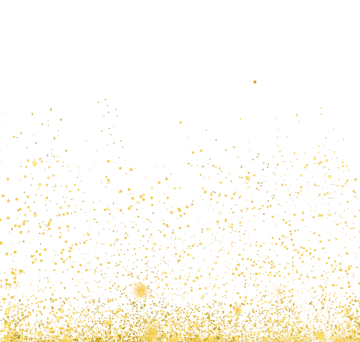
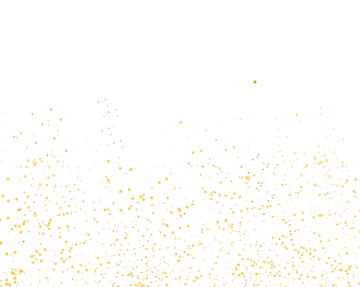
sessao extra do convite, opção ver mais

diff --git a/index.html b/index.html
@@ -298,7 +298,7 @@
 
             <h1
                 style="font-family:'Great Vibes',cursive;"
-                class="text-[#d4af37] text-8xl sm:text-8xl mt-20 sm:mt-10 md:mt-10">
+                class="text-[#d4af37] text-8xl sm:mt-10 md:mt-10">
 
                 Júlia
 
@@ -353,7 +353,7 @@
                 alt="arabesco">
 
             <!-- Ícones -->
-            <div class="flex gap-12 mt-10 mb-6">
+            <div class="flex gap-12 mt-4 mb-4">
 
                 <!-- Whats -->
                 <a
@@ -384,6 +384,87 @@
                     </svg>
 
                 </a>
+
+            </div>
+            <button
+                id="btnMais"
+                class="mt-4 px-10 bg-[#9d1414] rounded-full text-white tracking-[3px] uppercase shadow-lg hover:scale-105 transition">
+
+                Ver Mais
+
+            </button>
+
+        </div>
+
+    </section>
+
+    <!-- SEGUNDA PÁGINA -->
+    <section id="conviteExtra"
+            class="hidden min-h-screen bg-black text-white relative overflow-hidden">
+
+        <!-- Poeira -->
+        <img
+            src="img/poeira-dourada.png"
+            alt=""
+            class="block md:hidden absolute bottom-0 left-0 w-full pointer-events-none z-0">
+
+        <!-- Borda Desktop -->
+        <div
+            class="hidden md:block absolute inset-0 bg-contain bg-center bg-no-repeat opacity-70 pointer-events-none"
+            style="background-image: url('img/arabesco-laterais.png');">
+        </div>
+
+        <div
+            class="max-w-[380px] mx-auto min-h-screen flex flex-col items-center text-center px-6 py-12">
+
+            <!-- Título -->
+            <h2
+                style="font-family:'Great Vibes',cursive;"
+                class="text-white text-6xl sm:mt-8 md:mt-8">
+
+                Detalhes aos Convidados
+
+            </h2>
+
+            <!-- Linha decorativa -->
+            <img
+                src="img/arabesco-inferior.png"
+                alt="arabesco"
+                class="w-56 mt-2 opacity-90">
+
+            <!-- Lista -->
+            <div class="mt-2 text-left">
+
+                <ul class="text-[#d4af37] text-sm leading-8 space-y-3">
+
+                    <li>
+                        • O Traje sugerido é Social/Esporte fino - All Black
+                    </li>
+
+                    <li>
+                        • Não será permitida a entrada de nenhuma bebida externa.
+                    </li>
+
+                    <li>
+                        • Chegue 30 minutinhos antes da cerimônia começar para a fotografia.
+                    </li>
+
+                </ul>
+
+            </div>
+
+            <!-- Mensagem Final -->
+            <div class="mt-6 mb-16">
+
+                <p
+                    style="font-family:'Great Vibes',cursive;"
+                    class="text-white text-2xl leading-tight">
+
+                    Será uma alegria compartilhar
+                    <br>
+                    esse momento com você!
+
+                </p>
 
             </div>
 

diff --git a/convite.js b/convite.js
@@ -1,8 +1,11 @@
 const btnEntrar = document.getElementById("btnEntrar");
 const capa = document.getElementById("capa");
 const convite = document.getElementById("convite");
-const envelope = document.getElementById("envelope");
+const btnMais = document.getElementById('btnMais');
+const conviteExtra = document.getElementById('conviteExtra');
 
+
+const envelope = document.getElementById("envelope");
 const mascara = document.getElementById("mascara");
 const logo = document.getElementById("logoConvite");
 const conteudo = document.getElementById("conteudoConvite");
@@ -46,4 +49,12 @@ btnEntrar.addEventListener("click", () => {
 
     }, 700);
 
+});
+
+btnMais.addEventListener('click', () => {
+    conviteExtra.classList.remove('hidden');
+
+    conviteExtra.scrollIntoView({
+        behavior: 'smooth'
+    });
 });